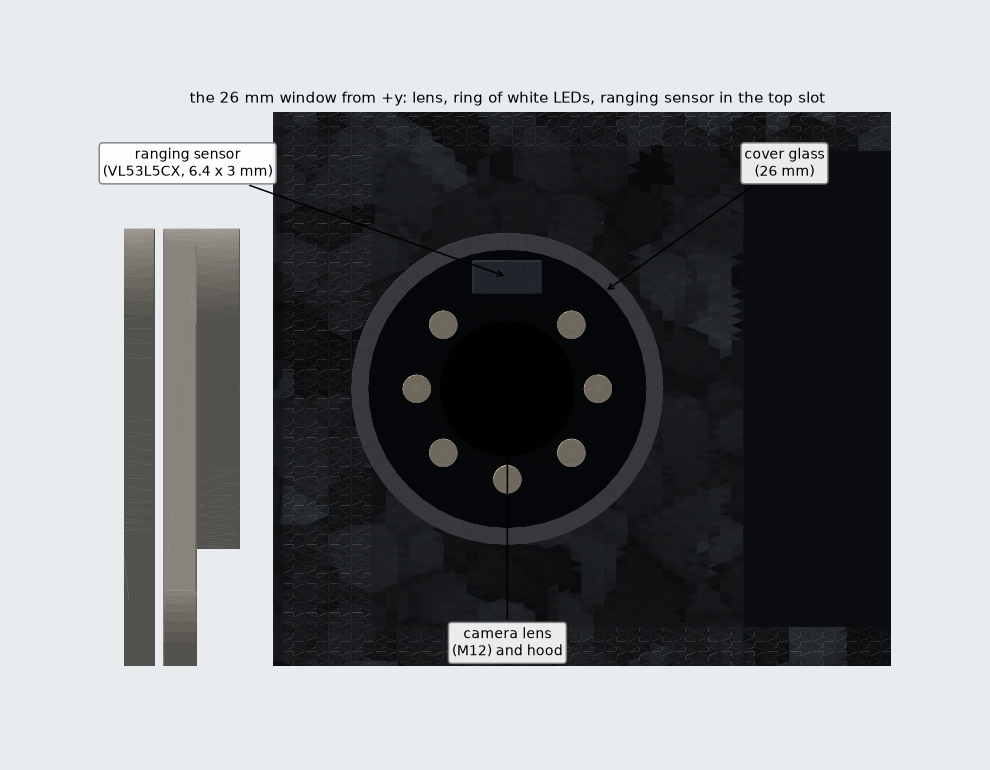
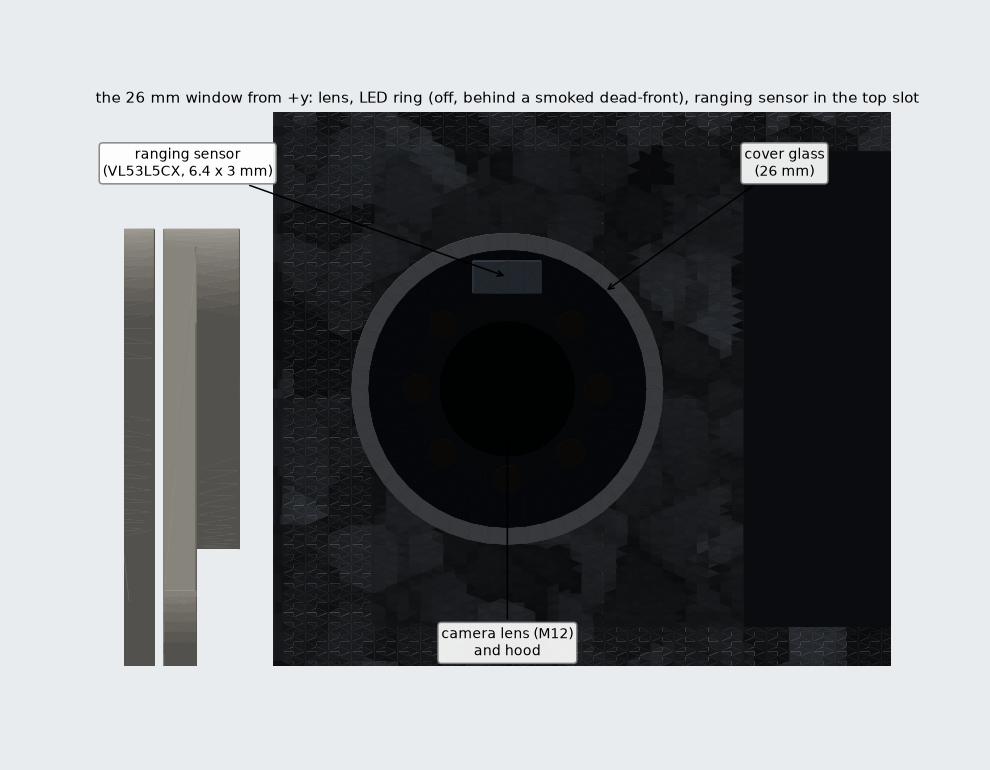
Dead-front film over the LED ring (smoked, about 20%) and IR-passing ink over the ranging sensor so the window reads as one black disc; lamp load 0.25 W; render shows the LEDs off

diff --git a/sim/src/constants.ts b/sim/src/constants.ts
@@ -32,7 +32,7 @@ export const POWER = {                        // W, from hardware/body/power_bud
   idle: 0.1155,                               // PIC32 awake (20 mA ASM) + XBee 3 receiving (15 mA SRC Digi) at 3.3 V; was 0.105 from an ESP32-class dev board (docs/electronics-concept.md)
   hold: 1.44,                                 // four servos holding at 30 mA and 12 V SRC (sources disagree 6 to 60 mA)
   wheels: 0.4,                                // four wheel motors at full drive ASM
-  lamp: 0.1,                                  // the LED ring round the camera lens, ASM (0.2 before the beamsplitter was dropped)
+  lamp: 0.25,                                 // the LED ring round the camera lens behind a smoked dead-front film, ASM (docs/hardware-spec.md section 5)
   camera: 0.3,                                // while capturing ASM
   radioTx: 0.0825,                            // W above the receiving figure at full link utilisation: XBee 3 802.15.4 non-PRO 40 mA at +8 dBm less 15 mA, at 3.3 V (manual snippet via distributors); was 0.65 ASM
   righting: 2.0,                              // servos moving ASM

diff --git a/hardware/assembly/concept_render.py b/hardware/assembly/concept_render.py
@@ -142,7 +142,7 @@ def main():
     plug = fine(slab("-y", -(70 - (GAP + 13)) - 13.5, -(70 - (GAP + 13)) + 13.5, 30 - 13.5, 30 + 13.5))
     parts = [(Path("body.step"), "#34383e", 0), (Path("struts.step"), "#b9b4aa", 0), (Path("wheels.step"), "#cdd1d6", 0),
              (Path("cells.step"), "#161a22", 0), (Path("bezel.step"), "#7a7f86", 0), (Path("glass.step"), "#0b0e13", 0), (Path("plug.step"), "#3f4a46", 0),
-             (Path("hood.step"), "#0d0f13", 0), (Path("lens.step"), "#010203", 0), (Path("leds.step"), "#fff4d8", 0), (Path("tof.step"), "#4a5262", 0)]
+             (Path("hood.step"), "#0d0f13", 0), (Path("lens.step"), "#010203", 0), (Path("leds.step"), "#17150f", 0), (Path("tof.step"), "#4a5262", 0)]
     pv.PARTS = parts
     meshes = [body, struts, wheels, cells, bezel, glass, plug, hood, lens, leds, tof]
     TEX["body"] = forged_texture(body)
@@ -163,9 +163,9 @@ def main():
     f3, a3 = plt.subplots(figsize=(9, 7)); f3.patch.set_facecolor("#e9ecef"); a3.set_facecolor("#e9ecef")
     r3, u3, d3 = pv.view(0, 90)
     wp = np.array([wx, 70.0, 30.0]); cxx, cyy = wp @ r3, wp @ u3
-    render(a3, meshes, 0, 90, "the 26 mm window from +y: lens, ring of white LEDs, ranging sensor in the top slot", lims=(cxx - 36, cxx + 36, cyy - 26, cyy + 26))
+    render(a3, meshes, 0, 90, "the 26 mm window from +y: lens, LED ring (off, behind a smoked dead-front), ranging sensor in the top slot", lims=(cxx - 36, cxx + 36, cyy - 26, cyy + 26))
     sp = np.array([wx, 70.0, 40.5]); a3.annotate("ranging sensor\n(VL53L5CX, 6.4 x 3 mm)", (sp @ r3, sp @ u3), (cxx - 30, cyy + 20), fontsize=9, arrowprops=dict(arrowstyle="->"), ha="center", bbox=dict(boxstyle="round,pad=0.25", fc="white", ec="0.5", alpha=0.92))
-    cp = np.array([wx, 70.0, 30.0 - 4]); a3.annotate("camera lens\n(M12) and hood", (cp @ r3, cp @ u3), (cxx, cyy - 25), fontsize=9, arrowprops=dict(arrowstyle="->"), ha="center", bbox=dict(boxstyle="round,pad=0.25", fc="white", ec="0.5", alpha=0.92))
+    cp = np.array([wx, 70.0, 30.0 - 4]); a3.annotate("camera lens (M12)\nand hood", (cp @ r3, cp @ u3), (cxx, cyy - 25), fontsize=9, arrowprops=dict(arrowstyle="->"), ha="center", bbox=dict(boxstyle="round,pad=0.25", fc="white", ec="0.5", alpha=0.92))
     gp = np.array([wx - 13.0 * 0.7, 70.0, 30.0 + 13.0 * 0.7]); a3.annotate("cover glass\n(26 mm)", (gp @ r3, gp @ u3), (cxx + 26, cyy + 20), fontsize=9, arrowprops=dict(arrowstyle="->"), ha="center", bbox=dict(boxstyle="round,pad=0.25", fc="white", ec="0.5", alpha=0.92))
     f3.savefig(HW.parent / "docs" / "images" / "rover-concept-window.png", dpi=110, facecolor=f3.get_facecolor())
     out = HW.parent / "docs" / "images" / "rover-concept.png"

diff --git a/hardware/body/power_budget.py b/hardware/body/power_budget.py
@@ -35,7 +35,7 @@ loads = {
     "controller awake + radio receiving (PIC32MX250F128B (now the 44-pin F128D, docs/hardware-spec.md) about 0.5 mA/MHz x 40 MHz = 20 mA, a family-datasheet summary scaled by me, ASM; XBee 3 802.15.4 receive 15 mA, Digi page; both at 3.3 V)": (0.020 + 0.015) * 3.3,
     "radio transmitting, ABOVE the receiving figure (XBee 3 802.15.4 non-PRO 40 mA at +8 dBm, a manual snippet via distributors, less the 15 mA already counted; at 3.3 V)": (0.040 - 0.015) * 3.3,
     "camera streaming (ASM 0.3 W)": 0.3,
-    "LED ring on, 7 white LEDs round the lens (ASM 0.1 W: the beamsplitter passed a quarter of the light, so the same exposure needs about 0.05 W; doubled for margin)": 0.1,
+    "LED ring on, 7 white LEDs round the lens behind a smoked dead-front film (ASM 0.25 W: about 0.05 W for the exposure the beamsplitter lamp gave, times 5 for a 20% film; the lamp is on only about 1 s a photo)": 0.25,
     "one servo moving at no load (180 mA at 12 V, SRC)": 0.180 * V_SERVO,
     "one servo holding or standby (6 mA datasheet to 60 mA other listings, at 12 V, SRC; sources disagree)": 0.030 * V_SERVO,
     "four wheel motors driving flat at 40 mm/s (ASM: about 0.1 W each; no-load 0.15 A at 6 V, SRC)": 0.4,

diff --git a/docs/hardware-spec.md b/docs/hardware-spec.md
@@ -87,6 +87,7 @@ The range in the x1 column is the servo idle current, which the sources disagree
   - **Costs (mine):** a ring of LEDs 8.5 mm from the lens axis lights from slightly off axis, not coaxially: at a 0.3 to 1 m working distance the shadow offset is a few mm and small, but glossy surfaces will show ring-shaped highlights; and **glare is the real risk**: the LEDs sit behind the same glass as the lens, so light can scatter in the glass into the lens. The standard fixes (as in webcams): a black printed mask ring on the glass round the lens aperture, a lens hood pressed against the glass, and the LEDs set behind the clear annulus outside it. The hood's gap and the glass thickness are to be settled; the camera's IR-cut filter behaviour is unknown.
   - **Ranging sensor:** VL53L5CX in the ring's top slot, long axis horizontal (6.4 x 3.0 mm), centre 10.5 mm above the axis (z = 40.5; top edge 12.0 mm, **0.6 mm inside the circle at the sensor's width: tight**), on the ring board (y 66 to 67.5) just behind the glass, looking +y. White LEDs are used (not infrared) so that the ring's light does not swamp the sensor's 940 nm detector, which has an infrared filter. The sim's 22 degree downward tilt would be a small wedge under the sensor board (not modelled). Answering the owner's earlier question (would rotating the sensor 90 degrees shrink the window?): not worth it, and the side position I had before it overlapped the camera's view cone by about 1.7 mm; the top slot is better.
   - **Modelled as:** a camera box (25 x 24 x 9 mm, 12 g), a ring box (20 x 1.5 x 16 mm standing for the ring zone, 3 g, 7 LEDs at about 8.5 mm radius, the 12 o'clock slot left to the sensor) and the sensor box (2 g); the cavities are the 26 mm through-wall cylinder (y 60 to 70) and these boxes, with no frustum and no lamp beam.
+  - **Making the window read as one black disc (owner's question, 2026-11-14; recommendation mine, from general practice, unchecked): a "dead front".** Over the LED ring only, the inner face of the cover glass carries a **neutral smoked coating (about 15 to 25% transmittance, ASM)**; the rest of the window (the lens hood, the mask ring, the sensor's patch) is black. Unlit, the LEDs, which are white and yellowish even when off, vanish behind it; lit, they shine through the smoked film, as indicator LEDs do behind black fascias on consumer electronics. **Lens:** a clear aperture over the lens only (the lens looks black behind glass anyway). **Ranging sensor:** an infrared-passing black ink over its two apertures (as phones do for their time-of-flight and face sensors: dark in visible light, passing 940 nm; the ink's 940 nm transmission and its effect on crosstalk need ST's cover-glass guide and the ink maker's data). **Cost:** only the light that leaves through the film is cut, and the scene's light returns to the camera without passing it, so the penalty is one pass: at 20% the ring needs about 5 times the power for the same exposure, about 0.25 W (the ring ran 0.05 W in my beamsplitter comparison, and the old lamp 0.2 W). The lamp is on only while a still is taken (the sim: about 1 s), so the energy cost is small (0.07 mWh a photo); `power_budget.py` and the sim now use 0.25 W. **Alternatives considered:** (a) a dark-tinted cover glass over everything: it dims the camera's ambient light by the same factor, and again for the lamp's return, so the camera suffers more than with the film over the LEDs alone; rejected. (b) infrared LEDs behind an infrared-passing black glass, as security cameras do: the LEDs are then truly invisible and the glass is black, but the stills would lose their colour (the camera's IR-cut filter would have to go) and the owner wants colour photographs as far as the docs say; rejected unless the owner chooses monochrome night stills. (c) black-bodied LEDs behind a black diffuser: similar to the smoked film; fine, but the film is simpler. **Open:** the film's actual transmittance and colour neutrality (a smoked film can tint the LEDs' white), whether the film is a printed ink or a laminated film, and whether the mask and film are made on the glass or on a separate plastic window.
   - **Open:** the cover-glass material and thickness (the datasheet's histogram handles glass crosstalk beyond 60 cm; closer glass needs ST's cover-glass guide), the sensor-to-glass gap (the box stands about 1 mm off the wall's inner face; it should sit against the glass with a spacer), the ring's driver (an LED driver with a PWM or on-off pin on the PIC32, or a MOSFET on the 3.3 V rail: unspecified, and the pin count is tight), the LED part (a 0603 or 0402 white LED; not chosen), the camera's lens barrel length (the module box ignores it), whether the camera sees the 940 nm light (an IR-cut filter would hide it).
 
 **Inertial: TDK ICM-42688-P (working).** [TDK page](https://invensense.tdk.com/products/icm-42688-p/): 2.8 mdps/rtHz gyro noise, 70 ug/rtHz accelerometer noise, 0.88 mA in low-noise 6-axis mode, 2.5 x 3 x 0.91 mm LGA-14; supply 1.71 to 3.6 V for both VDD and VDDIO, SPI to 24 MHz, I2C to 1 MHz, I3C to 12.5 MHz (secondary listings, datasheet DS-000347 not read in full). Gyro full scale of 2000 dps and accelerometer 16 g are listed. Runs from the 3.3 V rail; I2C or SPI both possible.
